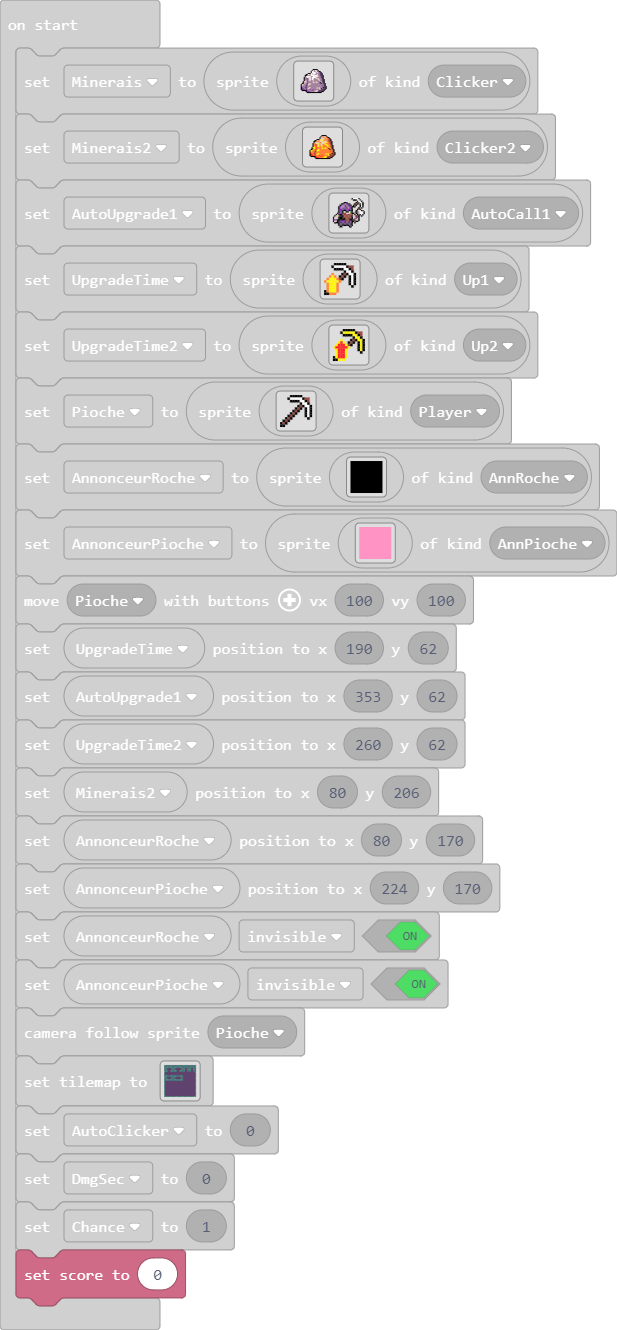
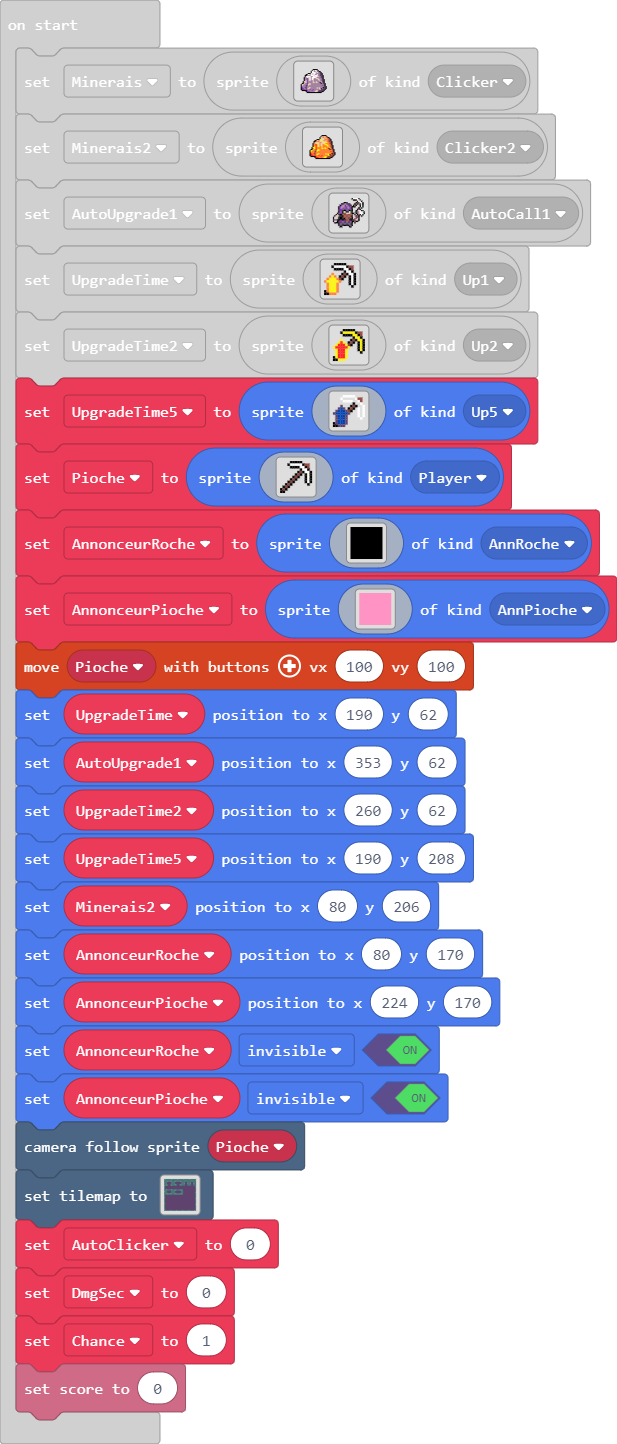
Update main.blocks, main.ts

diff --git a/main.ts b/main.ts
@@ -11,6 +11,7 @@ namespace SpriteKind {
     export const AutoCall2 = SpriteKind.create()
     export const AutoCall3 = SpriteKind.create()
     export const AnnPioche = SpriteKind.create()
+    export const Up5 = SpriteKind.create()
 }
 namespace myTiles {
     //% blockIdentity=images._tile
@@ -515,6 +516,21 @@ UpgradeTime2 = sprites.create(img`
 f 5 2 2 2 5 . . . . . . . 
 f f 5 5 5 . . . . . . . . 
 `, SpriteKind.Up2)
+let UpgradeTime5 = sprites.create(img`
+. . . . 1 1 1 1 1 . . . . 
+. . . 1 . . . . . 1 e e . 
+. . . . 1 1 1 1 . . 1 e . 
+. . . . . . . . f . . 1 . 
+. . . c . . . f e f . . 1 
+. . c 8 c . f e f . 1 . 1 
+. c 8 8 8 c e f . . 1 . 1 
+c 8 8 8 8 8 c . . . 1 . 1 
+. c 8 8 8 c . . . . 1 . 1 
+. c 8 8 8 c . . . . . 1 . 
+. c 8 8 8 c . . . . . . . 
+f c 8 8 8 c . . . . . . . 
+f f c c c . . . . . . . . 
+`, SpriteKind.Up5)
 Pioche = sprites.create(img`
 . . . . f f f f f . . . . 
 . . . f 1 1 1 1 1 f e e . 
@@ -602,6 +618,7 @@ controller.moveSprite(Pioche, 100, 100)
 UpgradeTime.setPosition(190, 62)
 AutoUpgrade1.setPosition(353, 62)
 UpgradeTime2.setPosition(260, 62)
+UpgradeTime5.setPosition(190, 208)
 Minerais2.setPosition(80, 206)
 AnnonceurRoche.setPosition(80, 170)
 AnnonceurPioche.setPosition(224, 170)
